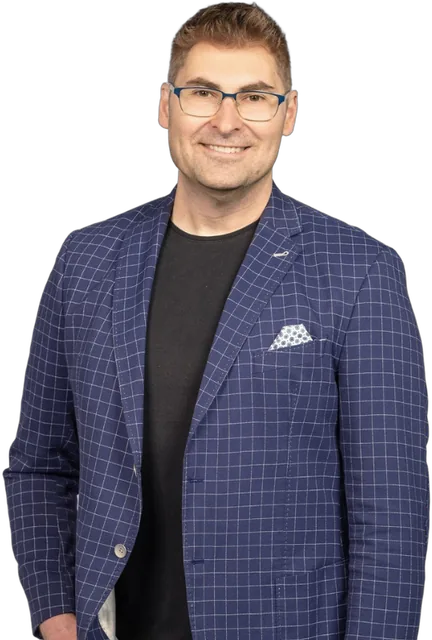
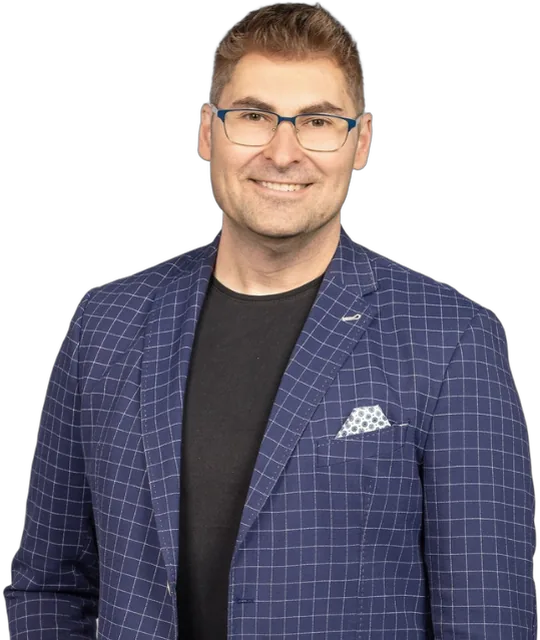
Baner COO: zdjęcie przycięte o 20% od dołu
Claude-Session: https://claude.ai/code/session_01Uo8swTocRnDmwwkQrzs4G5

diff --git a/en/index.html b/en/index.html
@@ -854,7 +854,7 @@ footer{border-top:1px solid var(--line);color:var(--muted);font-size:14.5px;marg
         <p class="coo-sig">Mateusz Grzywnowicz<small>COO · EPRPILOT sp. z o.o.</small></p>
         <a class="btn btn-lime" href="/en/consulting">Book a consultation <svg><use href="#i-arrow"/></svg></a>
       </div>
-      <div class="coo-ph" aria-hidden="true"><span class="coo-tri b"></span><span class="coo-tri a"></span><img src="/img/mateusz-coo.webp" alt="" width="432" height="640" loading="lazy"></div>
+      <div class="coo-ph" aria-hidden="true"><span class="coo-tri b"></span><span class="coo-tri a"></span><img src="/img/mateusz-coo.webp?v=2" alt="" width="540" height="640" loading="lazy"></div>
     </div>
   </div>
 </section>

diff --git a/index.html b/index.html
@@ -854,7 +854,7 @@ footer{border-top:1px solid var(--line);color:var(--muted);font-size:14.5px;marg
         <p class="coo-sig">Mateusz Grzywnowicz<small>COO · EPRPILOT sp. z o.o.</small></p>
         <a class="btn btn-lime" href="/konsultacje">Umów konsultację <svg><use href="#i-arrow"/></svg></a>
       </div>
-      <div class="coo-ph" aria-hidden="true"><span class="coo-tri b"></span><span class="coo-tri a"></span><img src="/img/mateusz-coo.webp" alt="" width="432" height="640" loading="lazy"></div>
+      <div class="coo-ph" aria-hidden="true"><span class="coo-tri b"></span><span class="coo-tri a"></span><img src="/img/mateusz-coo.webp?v=2" alt="" width="540" height="640" loading="lazy"></div>
     </div>
   </div>
 </section>
